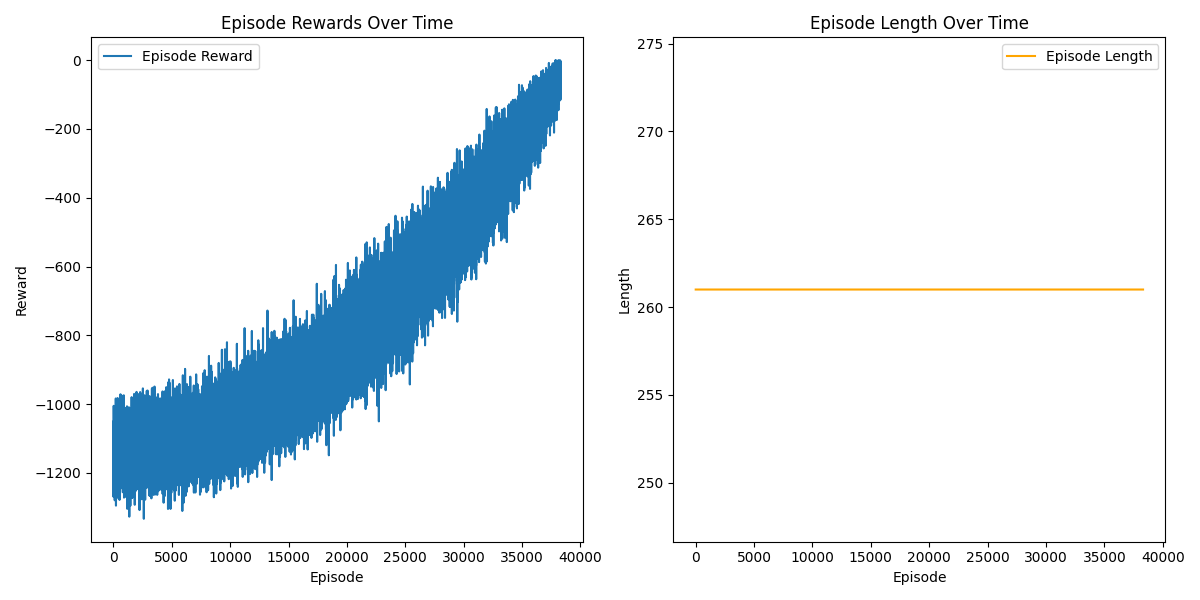
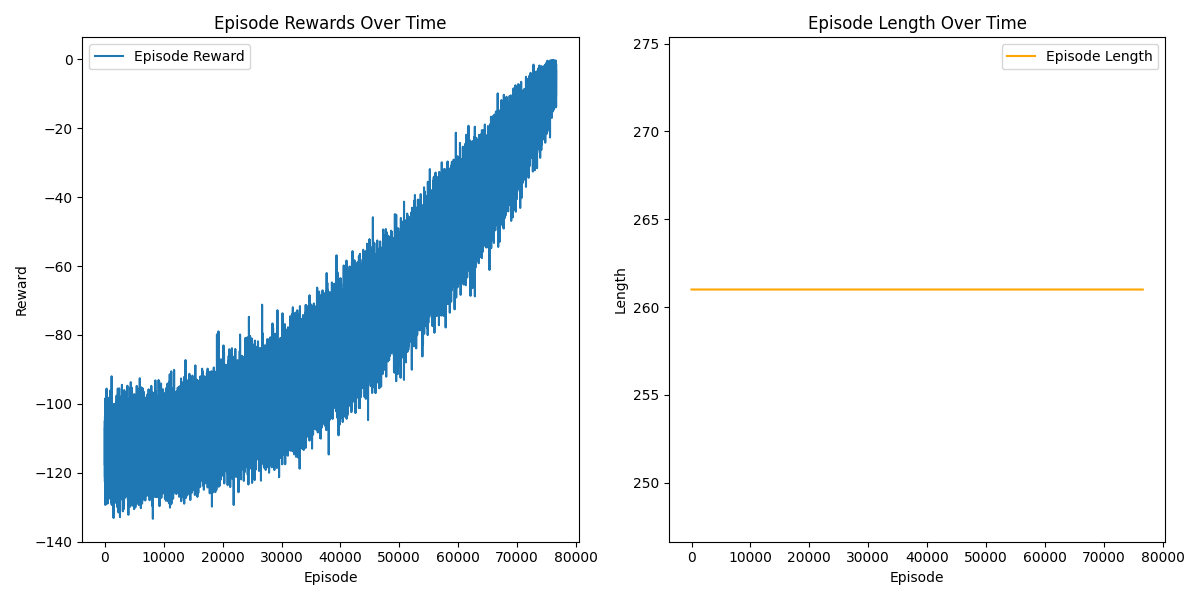
modified problem 1 v4

diff --git a/fixed_target_problem_dqn_v4.py b/fixed_target_problem_dqn_v4.py
@@ -57,7 +57,7 @@ class QuantumCompilerEnv(gym.Env):
         self.O_n = np.dot(np.linalg.inv(self.U_n), self.target_U)
         self.previous_axis = None
         self.axis_changes = 0
-        self.axis_change_penalty_rate = 0.005
+        self.axis_change_penalty_rate = 1.0001
         return self._get_observation(), {}
     
     def step(self, action):
@@ -93,7 +93,7 @@ class QuantumCompilerEnv(gym.Env):
             reward = (L - n) + 1
         else:
             reward = -distance / L
-        reward -= self.axis_changes * self.axis_change_penalty_rate
+        reward -= self.axis_changes/ L * self.axis_change_penalty_rate
         return reward
 
     def _check_done(self):
@@ -214,15 +214,15 @@ if __name__ == '__main__':
         env,
         policy_kwargs=policy_kwargs,
         learning_rate=0.0005,  
-        batch_size=10000,      
+        batch_size=100000,      
         train_freq=(1, 'episode'),
         exploration_initial_eps=1.0,
         exploration_final_eps=0.02,
         # gamma= 0.99976,
         exploration_fraction=0.99976, 
-        learning_starts=50000,
+        learning_starts=100000,
         target_update_interval=20000,
-        buffer_size=100000,
+        buffer_size=300000,
         verbose=1,
         device='cuda',  # Change to 'cpu' if not using GPU
     )

diff --git a/README.md b/README.md
@@ -1,6 +1,6 @@
 # QuantumCompiler
 
-This is a repository for the Quantum Compiler project. The goal of this project is to reproduce the results of the paper [Quantum compiling by deep reinforcement learning](https://www.nature.com/articles/s42005-021-00684-3#ref-CR7). The paper presents a quantum compiler that uses deep reinforcement learning to optimize the compilation of quantum circuits.
+This is a repository for the Quantum Compiler project. The goal of this project is to **reproduce the results** of the paper [Quantum compiling by deep reinforcement learning](https://www.nature.com/articles/s42005-021-00684-3#ref-CR7). The paper presents a quantum compiler that uses deep reinforcement learning to optimize the compilation of quantum circuits.
 
 ## Problems
 
